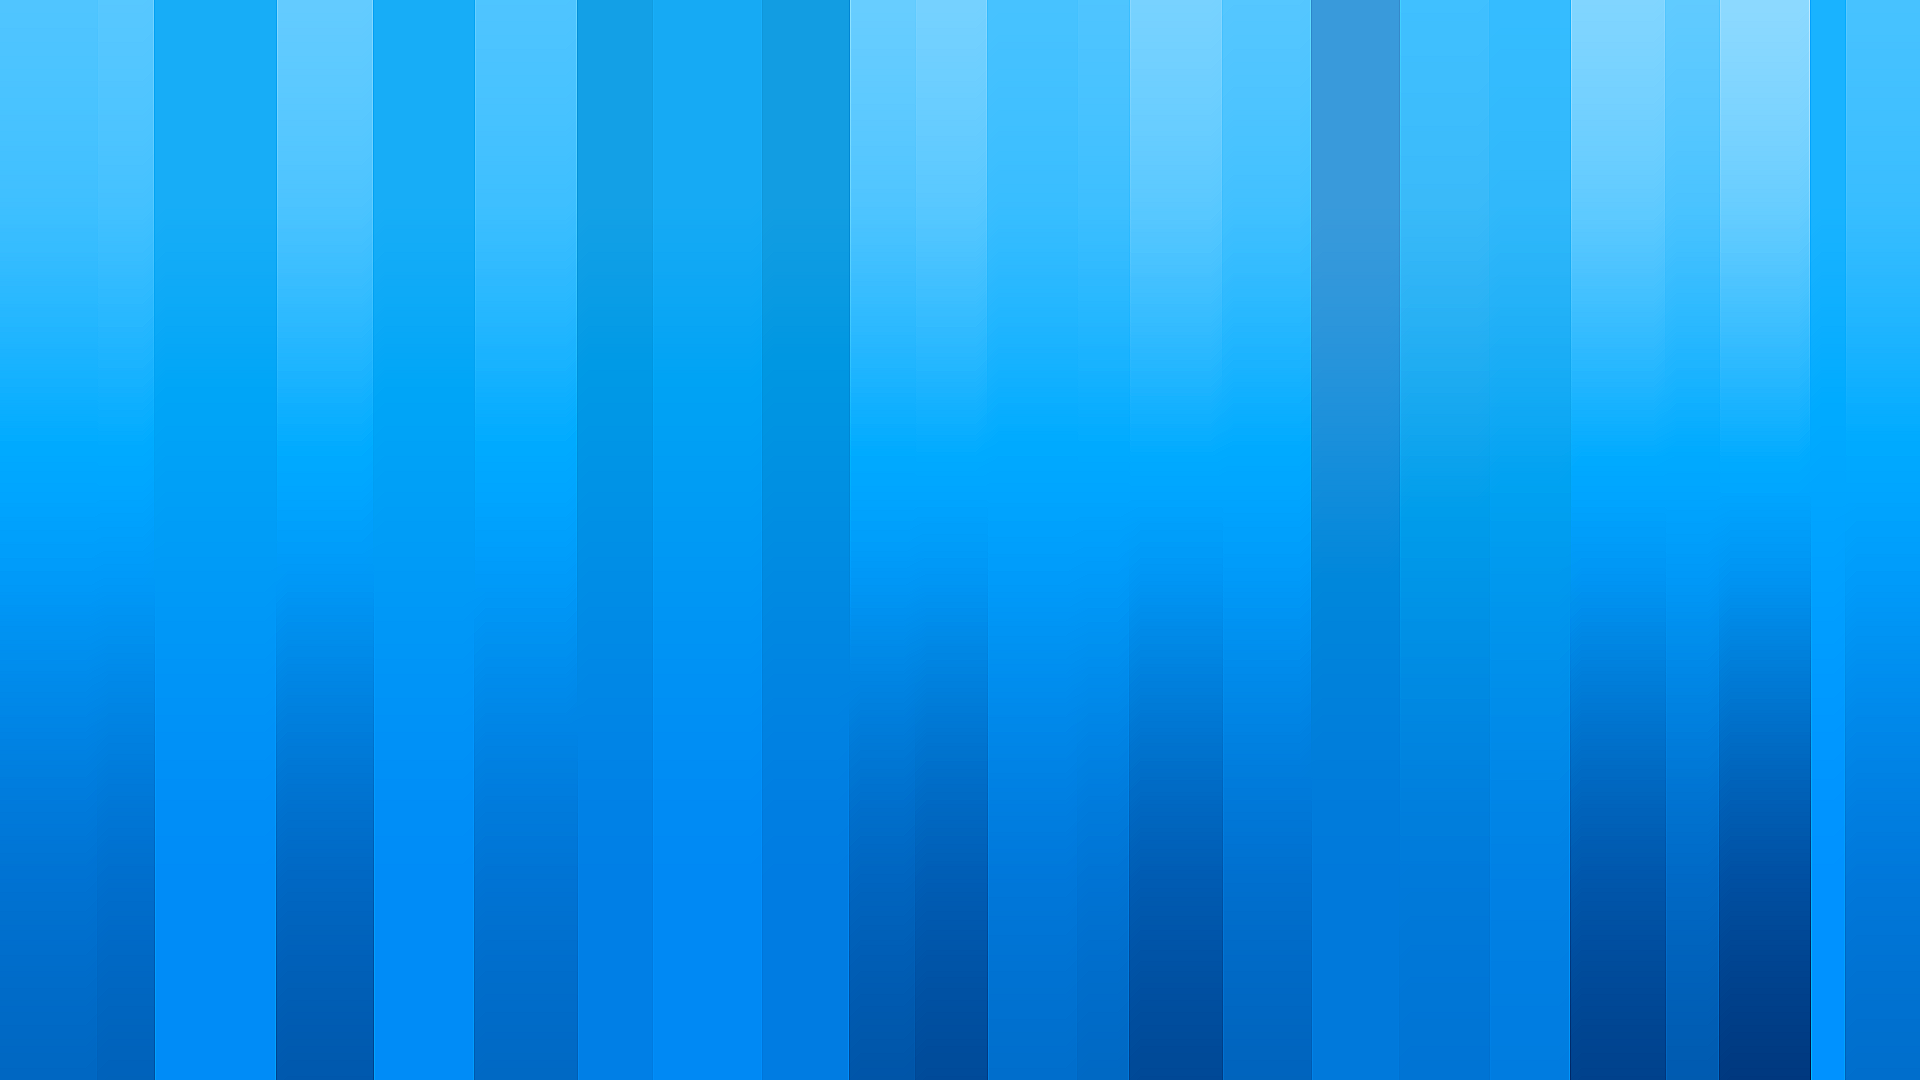
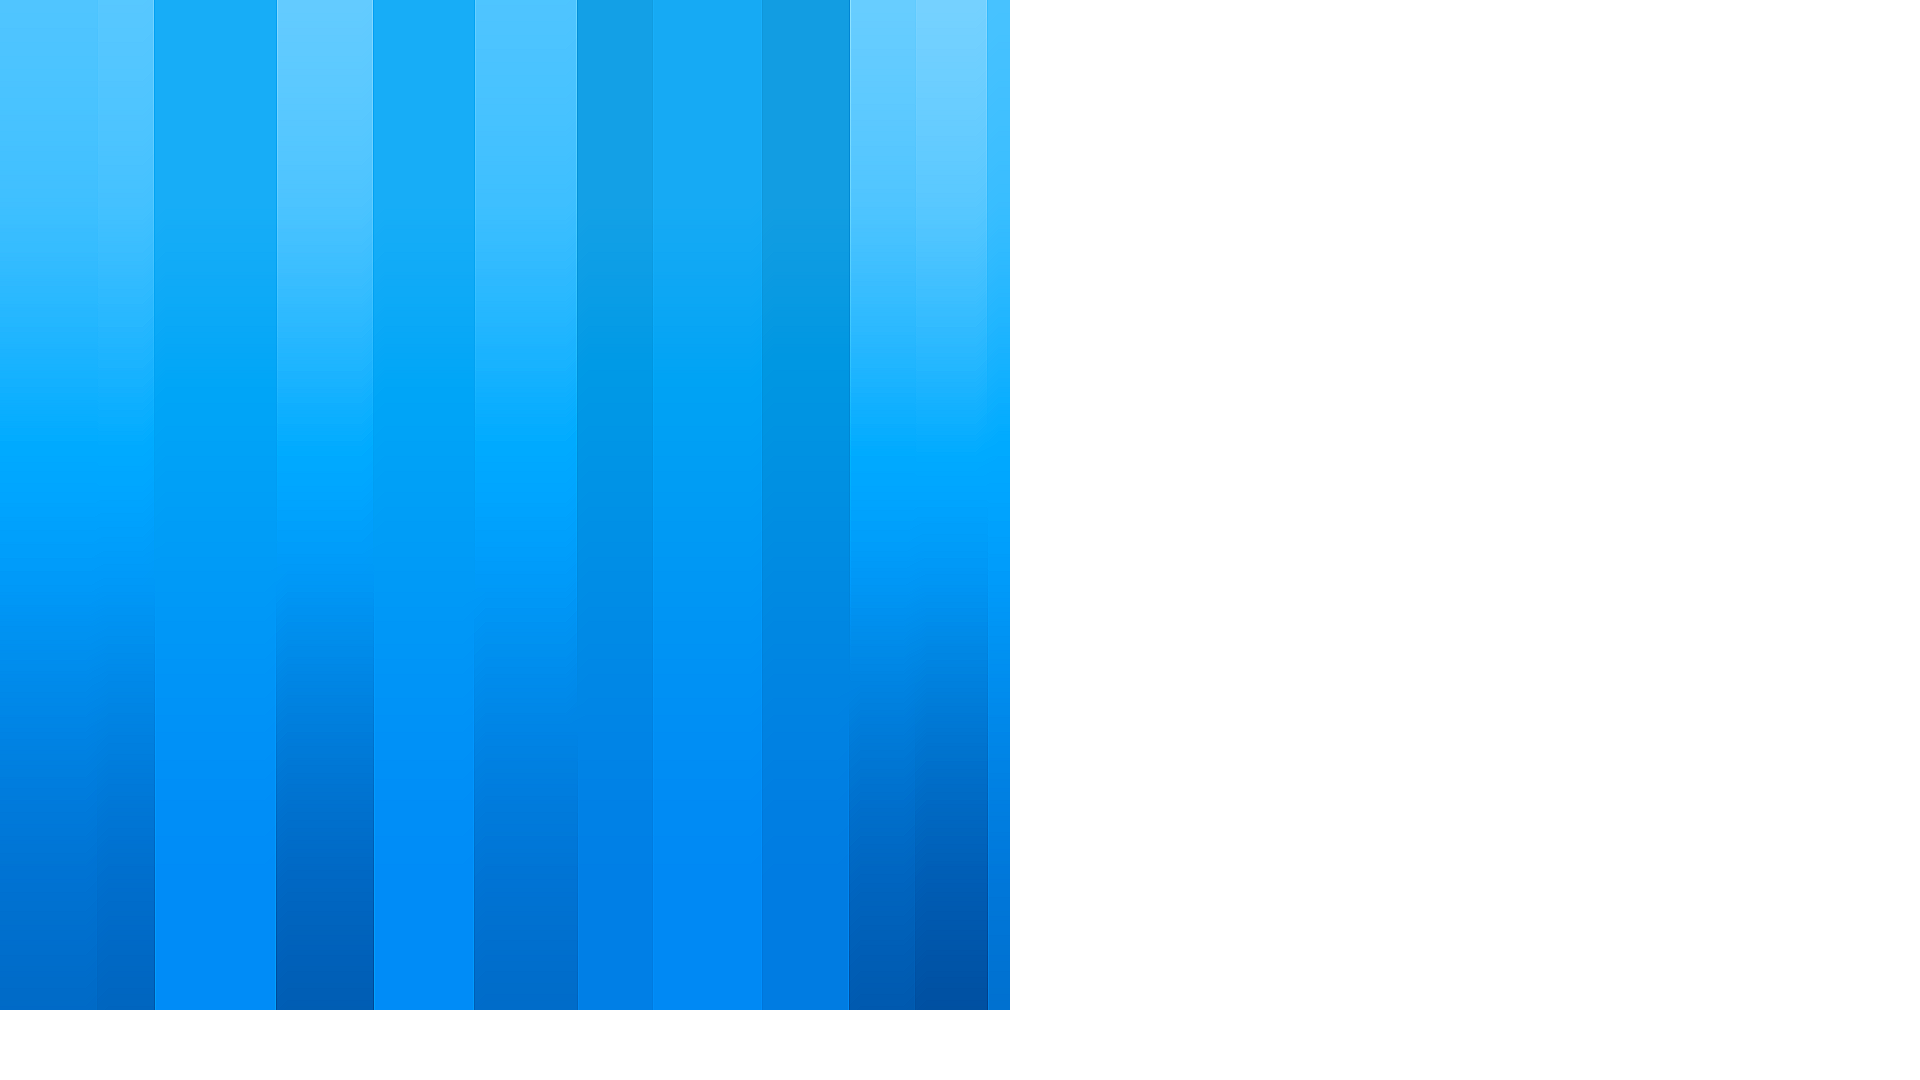
Click Multiplyer, and end game

diff --git a/src/BrownieManager.java b/src/BrownieManager.java
@@ -4,7 +4,7 @@ import javax.swing.JLabel;
 
 public class BrownieManager {
 	int ClickMultiplier = 1;
-	double brownieNum = 0;
+	double brownieNum = 400;
 	double CounterDisplay = 0;
 	BrownieStore store;
 	BrownieStore store2;
@@ -19,6 +19,7 @@ public class BrownieManager {
 	float browniesPerSecond;
 	float browniesPerTick;
 
+	GamePanel panel;
 	ArrayList<BrownieStore> brownieProduction = new ArrayList<BrownieStore>();
 
 	BrownieManager() {
@@ -27,10 +28,10 @@ public class BrownieManager {
 		store3 = new BrownieStore("Farm", 15, 1000);
 		store4 = new BrownieStore("Factory", 50, 10000);
 		store5 = new BrownieStore("Baking Cult", 200, 500000);
-		store6 = new BrownieStore("World Monopoly", 5000, 5000000);
-		store7 = new BrownieStore("Planet", 10000, 25000000);
+		store6 = new BrownieStore("Planet", 5000, 5000000);
+		store7 = new BrownieStore("World Monopoly", 10000, 25000000);
 		store8 = new BrownieStore("Science Beam", 1000000, 500000000);
-		store9 = new BrownieStore("Universal Monopoly", 0,   2147483647);
+		store9 = new BrownieStore("Universal Monopoly", 0, 2147483647);
 		brownieProduction.add(store);
 		brownieProduction.add(store2);
 		brownieProduction.add(store3);
@@ -51,10 +52,16 @@ public class BrownieManager {
 
 		setCounter(counter);
 
-		if(store9.producerAmount <1){
-		produce2();
+		if (store9.producerAmount < 1) {
+			produce2();
 		}
 
+	}
+
+	void multiplyer(){
+	if(browniesPerSecond/10 = 1*10^x){
+		ClickMultiplier=ClickMultiplier*2;
+	}
 	}
 
 	void brownieClick() {
@@ -93,7 +100,7 @@ public class BrownieManager {
 				+ (store6.produceAmount * store6.producerAmount) + (store7.produceAmount * store7.producerAmount)
 				+ (store8.produceAmount * store8.producerAmount);
 
-		browniesPerTick = browniesPerSecond / 60;
+		browniesPerTick = browniesPerSecond / 15;
 
 		brownieNum = (float) brownieNum + browniesPerTick;
 
@@ -107,34 +114,32 @@ public class BrownieManager {
 	private String shortString(String longString, int deciPlace) {
 		String shortString = "";
 		int stop = longString.length();
-		int point=longString.indexOf('.');
+		int point = longString.indexOf('.');
 		for (int i = 0; i < stop; i++) {
-			if (point>=0 &&	i>point+deciPlace) {
+			if (point >= 0 && i > point + deciPlace) {
 				break;
 			}
 			shortString = shortString + longString.charAt(i);
-			}
+		}
 
-
-		
-		System.out.println(longString);
-		System.out.println(shortString);
+		// System.out.println(longString);
+		// System.out.println(shortString);
 		return shortString;
 	}
 
 	void setCounter(JLabel counter) {
 		CounterDisplay = brownieNum;
-		String counterMessage="";
+		String counterMessage = "";
 		String hi = shortString(Double.toString(CounterDisplay), 0);
 
 		if (brownieNum <= 999) {
 			if (brownieNum >= 2 || brownieNum == 0) {
 
-				counterMessage=counterMessage +hi + " Brownies";
+				counterMessage = counterMessage + hi + " Brownies";
 
 			} else if (brownieNum == 1) {
 
-				counterMessage=counterMessage +hi + " Brownie";
+				counterMessage = counterMessage + hi + " Brownie";
 			}
 		}
 
@@ -142,7 +147,7 @@ public class BrownieManager {
 
 			CounterDisplay = CounterDisplay / 1000;
 			hi = shortString(Double.toString(CounterDisplay), 3);
-			counterMessage=counterMessage +hi + " Thousand Brownies";
+			counterMessage = counterMessage + hi + " Thousand Brownies";
 
 		}
 
@@ -150,14 +155,14 @@ public class BrownieManager {
 			CounterDisplay = brownieNum;
 			CounterDisplay = CounterDisplay / 1000000;
 			hi = shortString(Double.toString(CounterDisplay), 4);
-			counterMessage=counterMessage + hi + " Million Brownies";
+			counterMessage = counterMessage + hi + " Million Brownies";
 		}
-		
+
 		else if (brownieNum >= 1000000000) {
 			CounterDisplay = brownieNum;
 			CounterDisplay = CounterDisplay / 1000000000;
 			hi = shortString(Double.toString(CounterDisplay), 4);
-			counterMessage=counterMessage + hi + " Trillion Brownies";
+			counterMessage = counterMessage + hi + " Trillion Brownies";
 		}
 		counter.setText(counterMessage);
 	}

diff --git a/src/BrownieScreen.java b/src/BrownieScreen.java
@@ -1,4 +1,3 @@
-import java.awt.Color;
 import java.awt.Graphics;
 import java.awt.image.BufferedImage;
 import java.io.IOException;
@@ -10,24 +9,22 @@ public class BrownieScreen {
 	BrownieStore store;
 	public static BufferedImage BlueImg;
 	public static BufferedImage StoreImg;
-	
 
 	void draw(Graphics g) {
-		
+
 		try {
-			BlueImg = ImageIO.read(this.getClass().getResourceAsStream("Blue Background.png"));	
+			BlueImg = ImageIO.read(this.getClass().getResourceAsStream("Blue Background.png"));
 			StoreImg = ImageIO.read(this.getClass().getResourceAsStream("Shop Background.jpg"));
-		} catch (IOException e) {	
+		} catch (IOException e) {
 			e.printStackTrace();
 		}
-		
-		
+
 		// background
-		g.drawImage(this.BlueImg, 0, 0, BrownieTapperLauncher.WIDTH, BrownieTapperLauncher.HEIGHT, null);
-	
+		g.drawImage(this.BlueImg, 0, 0, BrownieTapperLauncher.WIDTH + 500, BrownieTapperLauncher.HEIGHT + 20, null);
 
 		// storeShopBackground
-		g.drawImage(this.StoreImg, (BrownieTapperLauncher.WIDTH/3)*2, 0, BrownieTapperLauncher.WIDTH, BrownieTapperLauncher.HEIGHT, null);
+		g.drawImage(this.StoreImg, (BrownieTapperLauncher.WIDTH / 3) * 2, 0, BrownieTapperLauncher.WIDTH / 3,
+				BrownieTapperLauncher.HEIGHT, null);
 
 	}
 

diff --git a/src/GamePanel.java b/src/GamePanel.java
@@ -36,7 +36,7 @@ public class GamePanel extends JPanel implements ActionListener, MouseListener {
 
 	GamePanel() {
 
-		clock = new Timer(1000 / 60, (ActionListener) this);
+		clock = new Timer(1000 / 30, (ActionListener) this);
 		brwSrn = new BrownieScreen();
 		manager = new BrownieManager();
 		stores = manager.getStores();
@@ -86,14 +86,12 @@ public class GamePanel extends JPanel implements ActionListener, MouseListener {
 		button.setBackground(Color.GRAY);
 		button.setBounds(buttonX, buttonY, (frameSegment + 1) - 40, 80);
 		this.add(button);
-		
+
 	}
 
-	
-	
 	void brownieButton() {
-		URL u=getClass().getResource("chocolate_brownies.png");
-		Icon i=new ImageIcon(u);
+		URL u = getClass().getResource("chocolate_brownies.png");
+		Icon i = new ImageIcon(u);
 		brownie = new JButton();
 		brownie.addMouseListener(this);
 		brownie.setBorderPainted(false);
